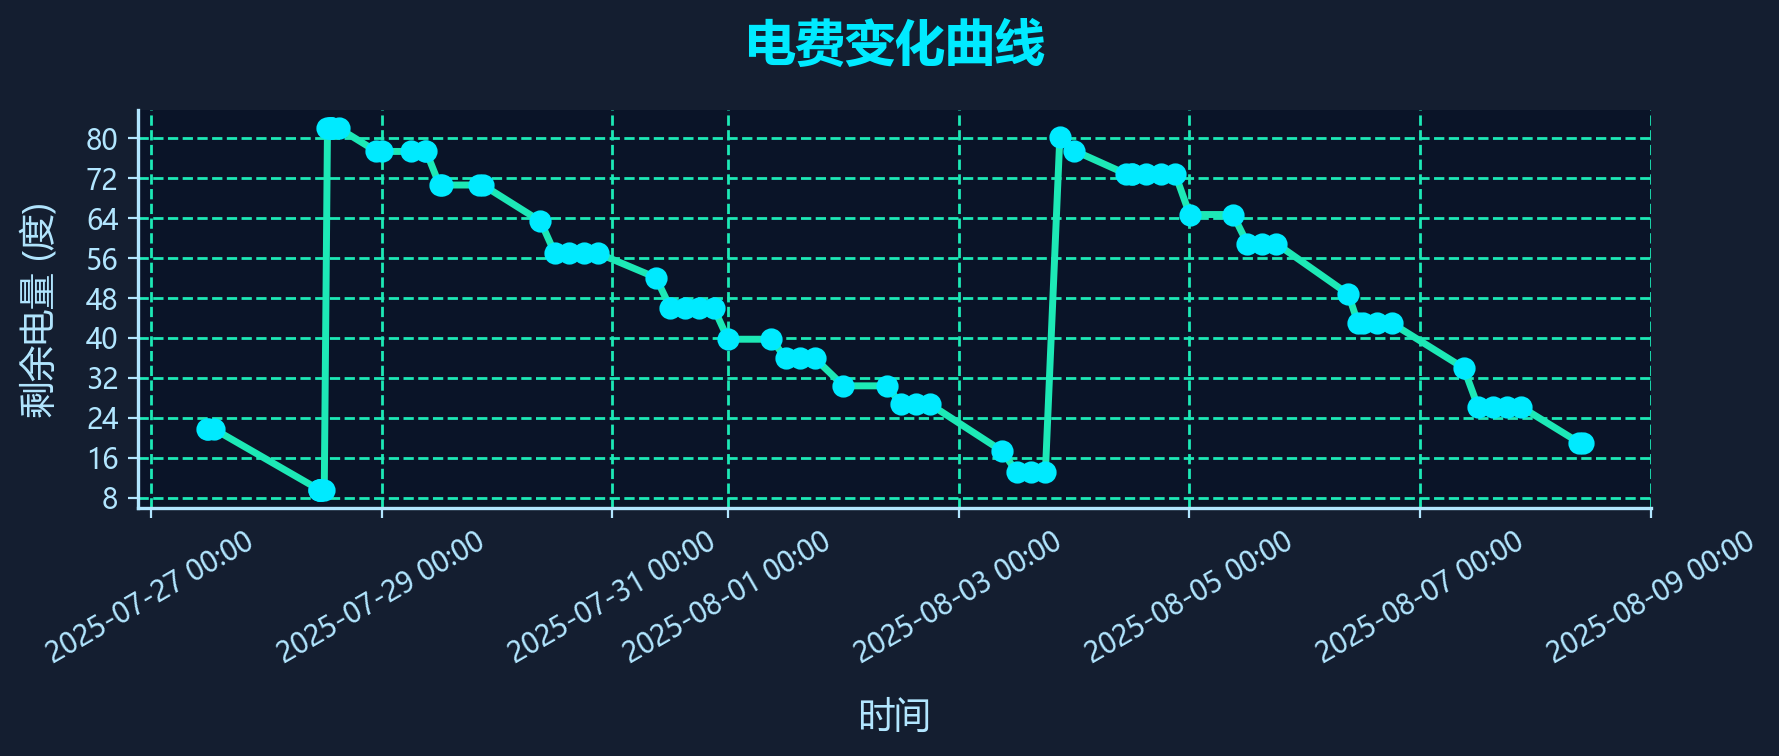
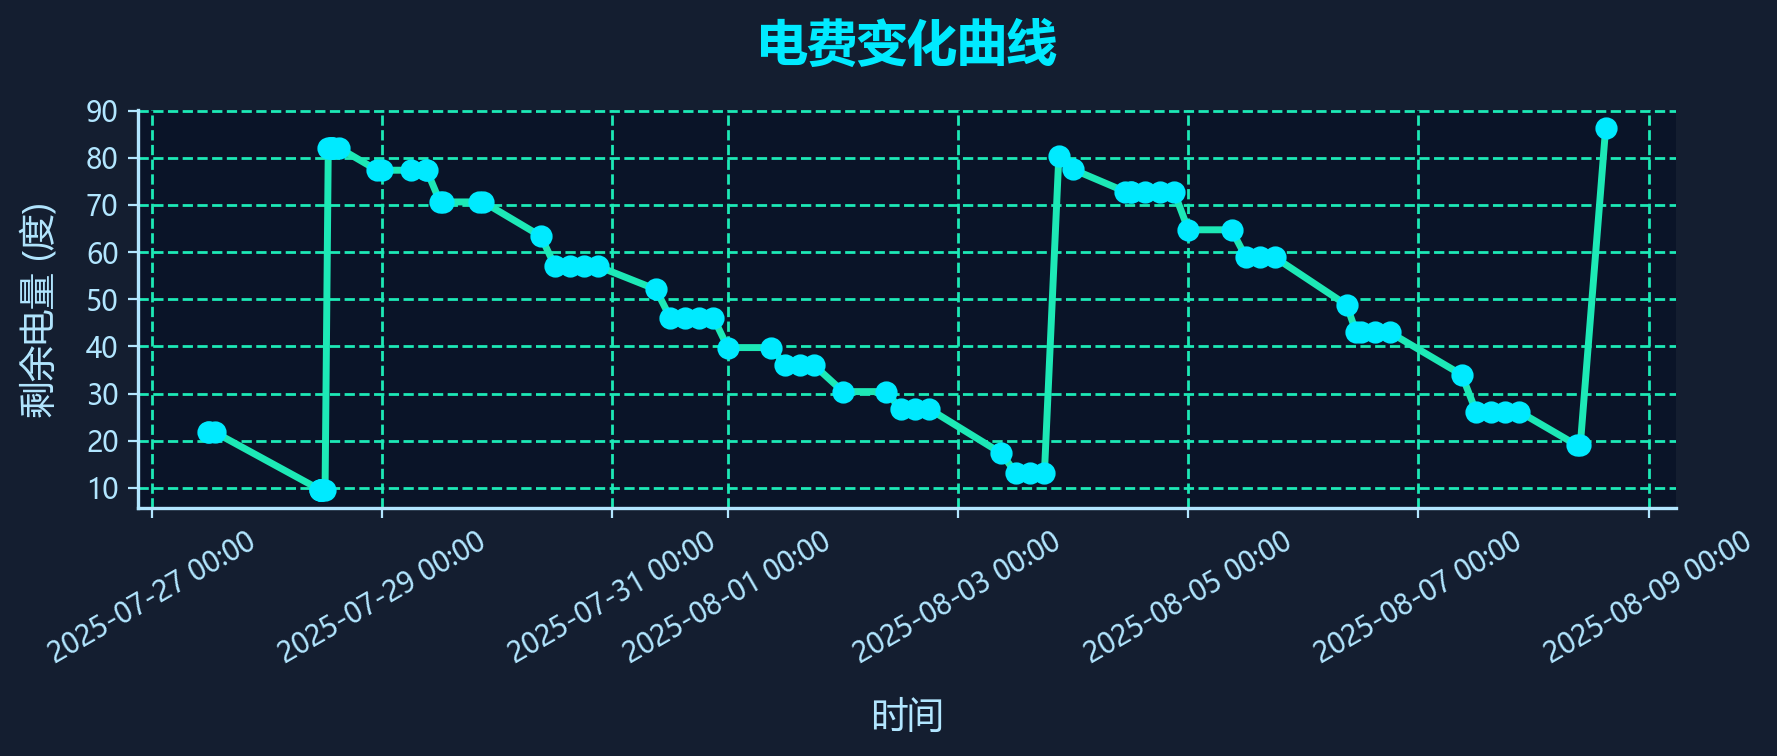
2025-08-08 15:03 自动提交电费变更

diff --git a/data/debug_page_source.html b/data/debug_page_source.html
@@ -2,7 +2,7 @@
     <meta http-equiv="Content-Type" content="text/html; charset=UTF-8">
     <meta http-equiv="X-UA-Compatible" content="IE=edge">
     <meta name="viewport" content="width=device-width, initial-scale=1, user-scalable=no">
-    <meta name="_csrf" content="969c2d7f-2d3b-45c4-a7f5-80960adb836e">
+    <meta name="_csrf" content="8bbe52ba-e165-42c6-ab1b-1cb3c6353aeb">
     <meta name="_csrf_header" content="X-CSRF-TOKEN">
     <link type="image/png" href="/epay/images/nju/icon.png" rel="shortcut icon">
     <link type="text/css" rel="stylesheet" href="/epay/css/wxpage/weui.min.css">
@@ -32,7 +32,7 @@
 
 
 <body>
-<div id="app"><div class="centent"><div class="top"><div class="clearfix"><span class="fl">持卡人姓名：<i>吴相民</i></span></div> <div class="clearfix"><span class="fl">校园卡余额：<i class="green">85.72元</i></span></div></div> <div class="line"></div> <div class="cont"><div class="clearfix"><span class="fl">缴费地址：<i>仙林校区 18幢 18栋第4层422</i></span></div> <div class="clearfix"><span class="fl">剩余电量：<i>19.03度</i><em></em></span></div> <!----> <!----></div> <div class="num clearfix"><div style="display: flex; flex-wrap: wrap;"><span class="active">10元</span><span class="">20元</span><span class="">50元</span><span class="">100元</span><span class="">200元</span><span class="">自定义</span></div></div> <div class="inputbox" style="display: none;"><input type="text" placeholder="请输入充值金额" pattern="[0-9]*" maxlength="4" id="amount"></div> <div class="footer">充值</div> <div class="desc">充值时间：每天00:05-23:55</div> <div class="wapat"><div class="wapat-inner"><div class="wapat-title">错误！</div> <div class="wapat-btn-box"><div class="wapat-btn wapat-btn-ok">确定</div></div></div></div></div></div>
+<div id="app"><div class="centent"><div class="top"><div class="clearfix"><span class="fl">持卡人姓名：<i>吴相民</i></span></div> <div class="clearfix"><span class="fl">校园卡余额：<i class="green">85.71元</i></span></div></div> <div class="line"></div> <div class="cont"><div class="clearfix"><span class="fl">缴费地址：<i>仙林校区 18幢 18栋第4层422</i></span></div> <div class="clearfix"><span class="fl">剩余电量：<i>86.32度</i><em></em></span></div> <!----> <!----></div> <div class="num clearfix"><div style="display: flex; flex-wrap: wrap;"><span class="active">10元</span><span class="">20元</span><span class="">50元</span><span class="">100元</span><span class="">200元</span><span class="">自定义</span></div></div> <div class="inputbox" style="display: none;"><input type="text" placeholder="请输入充值金额" pattern="[0-9]*" maxlength="4" id="amount"></div> <div class="footer">充值</div> <div class="desc">充值时间：每天00:05-23:55</div> <div class="wapat"><div class="wapat-inner"><div class="wapat-title">错误！</div> <div class="wapat-btn-box"><div class="wapat-btn wapat-btn-ok">确定</div></div></div></div></div></div>
 
 
 
